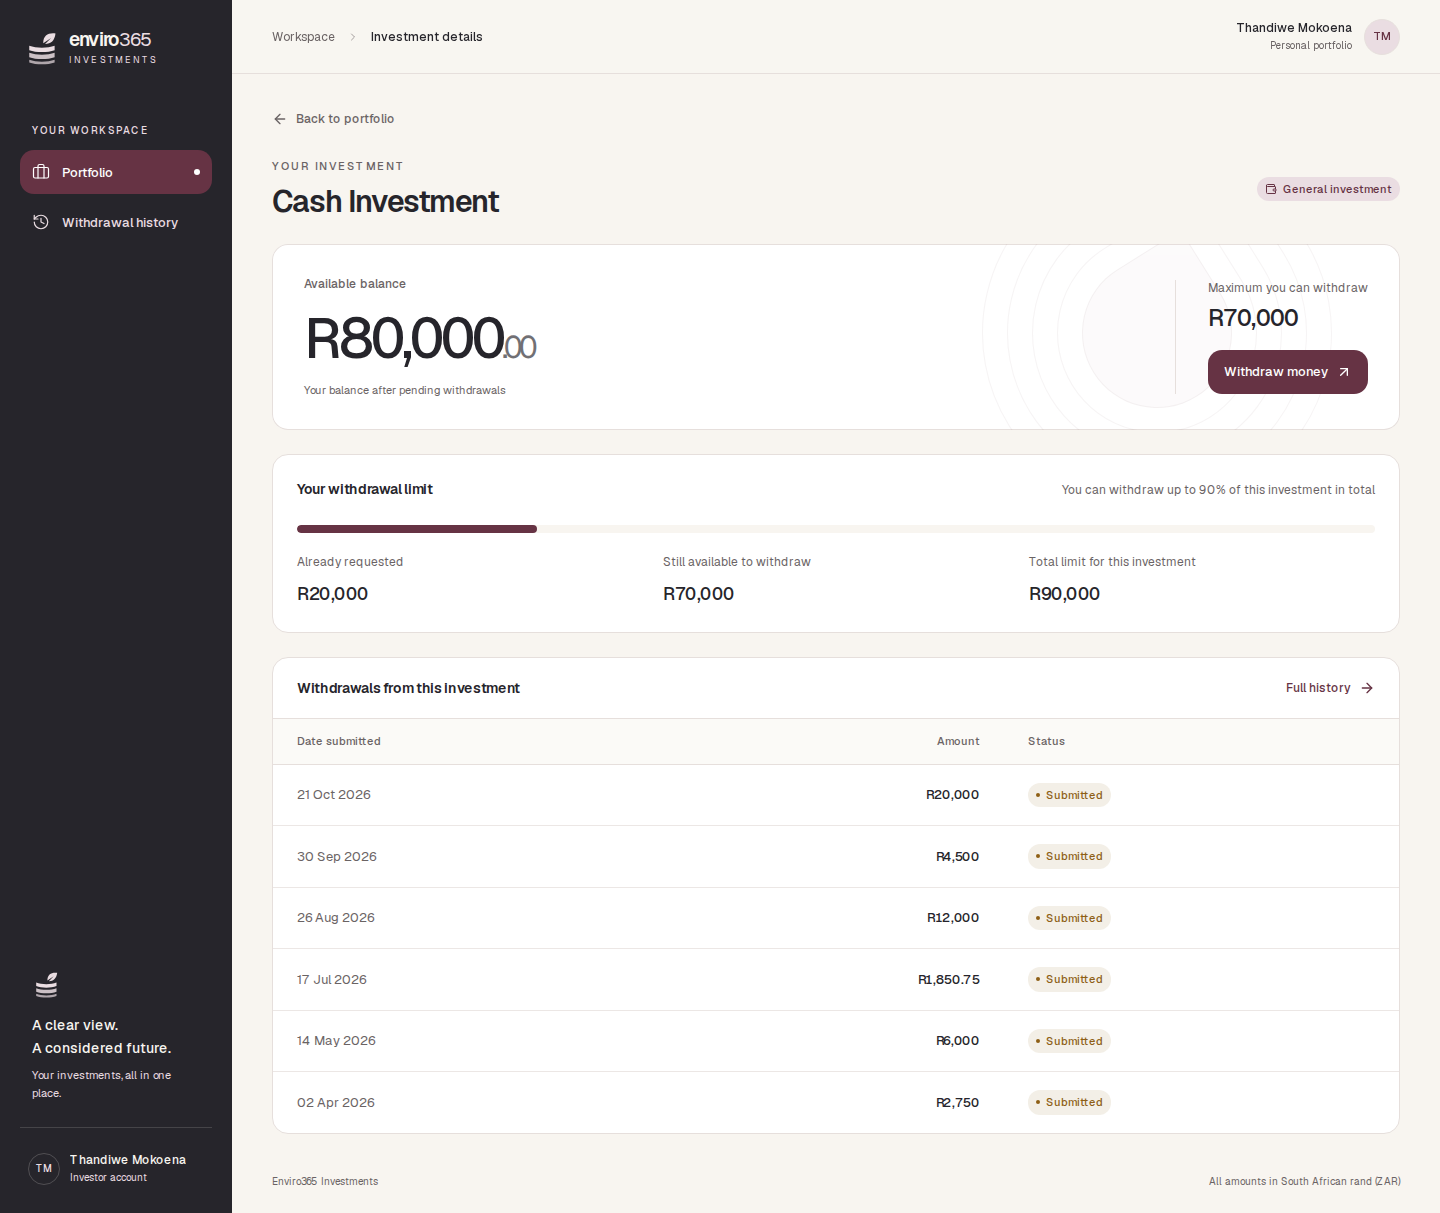
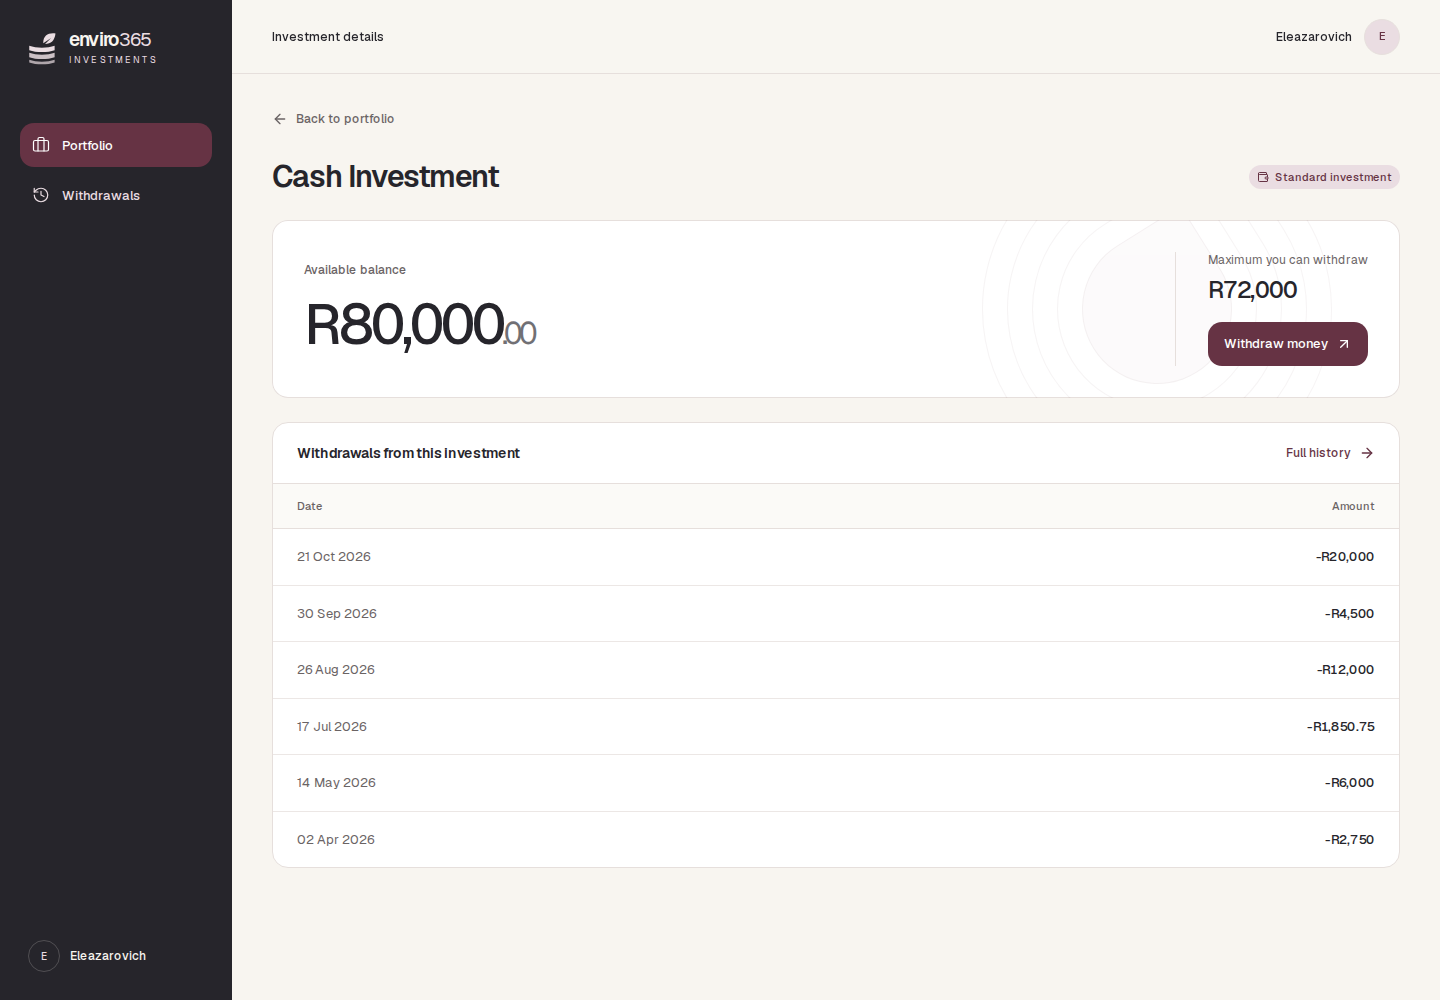
Finalize frontend requirements and refresh verification previews

diff --git a/_docs/SPEC.md b/_docs/SPEC.md
@@ -38,7 +38,7 @@ Create a premium, modern, minimalist financial application.
 
 - Light, neutral background with white or subtly elevated surfaces.
 - Dark, highly readable typography.
-- Restrained use of one sophisticated accent colour, such as deep blue, teal, or emerald.
+- Restrained rosewood accents with porcelain backgrounds and white surfaces, following the [design system](design-system.md).
 - Clear information hierarchy and generous, purposeful whitespace.
 - Beautiful but understated investment cards.
 - Subtle borders, restrained shadows, and consistent spacing.
@@ -47,7 +47,7 @@ Create a premium, modern, minimalist financial application.
 - Responsive desktop, tablet, and mobile layouts.
 - Appropriate loading, empty, error, and confirmation states.
 
-Use professional typography such as Inter or a similarly readable font.
+Use Geist typography and the existing Enviro365 brand mark.
 
 Avoid oversized headings, excessive gradients, glassmorphism, decorative charts, unnecessary animations, large stock illustrations, or generic AI-generated dashboard clutter.
 
@@ -61,19 +61,18 @@ Use simple, familiar terms throughout the interface.
 
 Preferred labels:
 
-- Your portfolio
-- Total available
+- Portfolio
+- Investment details
+- Withdrawals
+- Total available balance
 - Your investments
 - Available balance
 - Withdraw money
 - Amount
 - Maximum you can withdraw
-- Withdrawal history
 - Download statement
 - Date
 - Investment
-- Status
-- Submitted
 
 Avoid internal terminology such as:
 
@@ -94,7 +93,7 @@ Use a clean and minimal navigation system.
 Primary sections:
 
 - Portfolio
-- Withdrawal history
+- Withdrawals
 
 Individual investments should be accessible from the portfolio dashboard through their cards.
 
@@ -117,9 +116,9 @@ Give the investor an immediate understanding of their available portfolio balanc
 At the top:
 
 - Application identity: Enviro365 Investments.
-- Main heading: "Your portfolio".
+- Main heading: "Portfolio value".
 - A prominent total available balance across all investment products.
-- A short supporting label: "Total available across your investments".
+- Balance label: "Total available balance", without a repeated supporting explanation.
 
 Below:
 
@@ -131,7 +130,7 @@ Below:
 Each investment card should display:
 
 - Product name.
-- Product type, such as General investment or Retirement.
+- Product type, such as Standard investment or Retirement.
 - Current available balance.
 - A clear action: "View investment".
 
@@ -169,14 +168,17 @@ Show details of a selected investment and provide an easy way to withdraw money.
 - A section showing withdrawal history for this specific investment.
 
 Keep the layout simple, well spaced, and visually consistent with the dashboard.
+Use the investment name as the page heading without a separate "Your investment" label.
+Show the current maximum beside the withdrawal action; omit the separate withdrawal-limit meter.
 
 ### Withdrawal history preview
 
 Display existing withdrawal records for this investment, including:
 
 - Date.
-- Amount.
-- Status.
+- Amount, shown as a negative deduction with cents preserved.
+
+Keep notice status internal; investment-specific lists omit the Investment column.
 
 If no withdrawals exist, display:
 "You haven't made any withdrawals from this investment yet."
@@ -199,9 +201,12 @@ The form may be presented in a dedicated focused view, dialog, or side panel, de
 - Available balance.
 - Maximum permitted withdrawal.
 - Amount input.
-- Submit button: "Submit withdrawal".
+- Submit button: "Confirm withdrawal".
 
 The selected investment must already be known from the investment detail view.
+Format the amount with comma-separated thousands as the investor types, allow up to two
+decimal places, and complete the cents on blur (for example, `80000` becomes `80,000.00`).
+Preserve the caret during edits and reject invalid input without changing the requested amount.
 
 ### Validation
 
@@ -210,6 +215,7 @@ Validate that:
 - An amount is entered.
 - The amount is greater than zero.
 - The amount is a valid monetary amount with no more than two decimal places.
+- The amount meets the API-provided R100 minimum.
 - The amount does not exceed the available balance.
 - The amount does not exceed the maximum permitted withdrawal.
 - Retirement withdrawals are only available to eligible investors.
@@ -238,6 +244,7 @@ Do not simply display "Invalid request".
 - Send the request through the API service.
 - On success, show confirmation.
 - Refresh the investment balance and withdrawal history using the updated data.
+- If the balance refresh fails after an accepted request, preserve the success confirmation and updated history, replace outdated balance figures with a retry state, and prevent another withdrawal until the balance refresh succeeds. Retrying the balance must not resubmit the withdrawal.
 - On failure, retain the entered amount and show an understandable error.
 
 ### Success confirmation
@@ -262,14 +269,15 @@ Allow the investor to review withdrawals across their portfolio and download a f
 
 ### Layout
 
-Heading: "Withdrawal history".
+Heading: "Withdrawals", shown once in the top bar.
 
 Display a clean, readable table containing:
 
 - Date.
 - Investment.
-- Amount.
-- Status.
+- Amount, shown as a negative deduction with cents preserved.
+
+Keep status labels and pending totals out of the investor-facing table.
 
 Sort by most recent first.
 
@@ -283,11 +291,16 @@ Provide:
 - A clear way to reset filters.
 
 Filters should be easy to understand and should apply consistently to displayed results and CSV downloads.
+Only the latest filter request may update the results, error, or loading state.
+Hide results from previous filters while the current selection loads, and enable
+statement download only after results for that selection have loaded successfully.
 
 ### CSV download
 
 Provide a clearly visible button:
 "Download statement"
+
+Place the button above the withdrawal filters.
 
 When activated, request a CSV file using the current filters.
 
@@ -295,8 +308,10 @@ The downloaded statement should contain:
 
 - Date.
 - Investment.
-- Amount.
-- Status.
+- Amount, as a negative numeric deduction with two decimal places.
+
+The CSV uses the same three columns as the history table. API amounts remain positive
+and notice status remains internal.
 
 Use a descriptive filename, such as:
 `withdrawal-statement-2026-10-28.csv`
@@ -361,7 +376,7 @@ Use internally consistent fictional data, for example:
 **Retirement Investment**
 
 - Recorded investment balance: R60,000.
-- No existing submitted withdrawals.
+- No existing pending withdrawals; historical records remain available in history.
 - Available balance: R60,000.
 - Maximum withdrawal: R54,000.
 - After requesting R54,000: R6,000 available, with a new maximum of R5,400.

diff --git a/_docs/design-system.md b/_docs/design-system.md
@@ -7,7 +7,7 @@ The existing portfolio and withdrawal workflows use the **Rosewood & Porcelain**
 - **Colour:** rosewood `#663344` marks primary actions, selected states, and brand details; primary hover is `#522A38`. Porcelain `#F8F5F0` forms the page background, with white `#FFFFFF` card surfaces, `#26252B` primary text, `#6A6364` secondary text, and `#E6DFDC` borders. Subtle accent surfaces use `#EADDE2`. Success uses `#146649`, errors use `#B42318`, and warnings retain their semantic amber. The sidebar uses neutral charcoal; financial amounts stay neutral. Avoid gradients, competing accent colours, and excessive shadows.
 - **Type:** Geist, served through `next/font`, is used throughout. Page titles are 26–30px; investment balances are 32px; the principal balance scales from 40–56px. Amounts use tabular numerals. Small labels stay secondary to financial values.
 - **Spacing:** use a 4px base, 20–24px between related panels, and 24–32px inside important surfaces. The desktop sidebar is 232px. Content is bounded on wide screens; screens below 1024px use the existing two-destination bottom navigation to leave room for financial information.
-- **Surfaces:** 16px corners, subtle borders, and minimal shadows. Group related controls and information: history filters and results share a single surface. The existing withdrawal-limit meter is the only data visualisation.
+- **Surfaces:** 16px corners, subtle borders, and minimal shadows. Group related controls and information: history filters and results share a single surface. Investment details flow directly from the balance summary to withdrawal history, with the current withdrawal maximum beside the action.
 - **Actions and fields:** primary actions use rosewood with white text; secondary actions use a neutral border. Inputs share `.field` and `.field-label`, with visible rosewood focus rings and explicit validation messages. Field boundaries use a dedicated input token with at least 3:1 contrast on white; text and action colours meet WCAG AA contrast expectations.
 - **States:** skeletons follow the eventual content shape. Errors offer the existing retry action. Withdrawal confirmation uses **Withdrawal submitted successfully**, the investment name, the signed amount, and **Done**. Balance and history updates run in the background without explanatory success copy. Motion respects reduced-motion preferences.
 
@@ -17,7 +17,15 @@ Colour tokens and shared styles live in `frontend/src/styles/tailwind.css`; `fro
 
 `BalanceAmount` displays actual decimal cents and exposes the complete amount to assistive technology. Investment cards and limits use the existing precise currency formatter. The modal supports initial focus, keyboard containment, Escape, focus restoration, and disabled dismissal during submission.
 
+Investment details use the investment name as the heading without an extra eyebrow. General products carry the **Standard investment** label; retirement products retain **Retirement**. API product types remain unchanged. `CurrencyInput` adds grouping commas during entry, permits up to two decimal places, completes cents on blur, and preserves cursor editing. Invalid edits and pastes retain the previous amount. The separate withdrawal-limit meter and its skeleton are removed; the maximum withdrawal and financial validation remain available.
+
 The routes, eligibility rule, filters, and CSV export remain in place. Each withdrawal is limited to 90% of the remaining available balance, rounded down to cents, with a R100 minimum. The API supplies both `minimumWithdrawable` and `maximumWithdrawable`; visual components do not calculate the limits. The decorative leaf outlines are original CSS and SVG, with no third-party imagery or chart data.
+
+History displays results for the current filter selection only, and keeps statement
+download unavailable until those results load. Late responses cannot replace newer
+results or errors. If a balance refresh fails after a submitted withdrawal, preserve
+the success confirmation and refreshed history, replace outdated balance figures
+with a retry state, and require a successful balance refresh before another request.
 
 When no request of at least R100 fits within the 90% limit, show **Minimum you can withdraw: R100** on the investment detail and portfolio card, and disable **Withdraw money**, without an additional limit explanation. Keep the actual available balance visible. Eligible investments continue to show **Maximum you can withdraw** with their current limit. The API still returns a maximum of R0 when unavailable; this is a display change only. The form's existing amount hint shows **Minimum withdrawal is R100.** There is no final-cent or full-balance exception.
 
@@ -44,8 +52,17 @@ Browser fixtures do not contact a live investment backend or submit real withdra
 
 The same suite also exercises the real mock adapter directly in `mock-api.spec.ts`, covering repeated requests on both products, the R100 minimum, cent rounding, retained balances below the minimum, concurrent requests, and retirement age boundaries. These checks do not prove Spring Boot/H2 integration.
 
+The [frontend verification report](frontend-verification.md) records the completed
+checks, including late filter responses, combined product/date exports, balance
+refresh recovery, and a clean installation from the committed lockfile.
+
 
 ## Previews
+
+Captured from the current frontend in mock mode on 29 October 2026. Desktop previews
+use 1440px width; mobile previews use a 390 × 844px viewport. These show the current
+R72,000 cash maximum, signed deductions, three-column statements, and simplified
+investment details.
 
 [Desktop portfolio](previews/rosewood-porcelain/portfolio-desktop.png) · [Investment details](previews/rosewood-porcelain/investment-details-desktop.png) · [Withdrawal form](previews/rosewood-porcelain/withdrawal-desktop.png) · [Withdrawal history](previews/rosewood-porcelain/history-desktop.png)
 

diff --git a/_docs/TASKS.md b/_docs/TASKS.md
@@ -1,5 +1,9 @@
 # Enviro365 Investments — Implementation & QA Checklist
 
+Frontend verification on 29 October 2026 uses the real mock adapter and intercepted
+HTTP responses. Checked frontend items below cover that phase; live integration and
+backend requirements remain unchecked. See the [frontend report](frontend-verification.md).
+
 ## A. Mandatory backend requirements
 
 ### MB-01 — Retrieve investor portfolio
@@ -31,30 +35,30 @@
 ## B. Mandatory frontend requirements
 
 ### MF-01 — Portfolio dashboard
-- [ ] Dashboard displays investor portfolio data.
-- [ ] Investment products are displayed.
-- [ ] Overall available balance is accurate.
-- [ ] Investor can open individual investment details.
+- [x] Dashboard displays investor portfolio data from the selected adapter.
+- [x] Investment products are displayed.
+- [x] Overall available balance is accurate in the verified mock and HTTP fixtures.
+- [x] Investor can open individual investment details.
 - [ ] Data is retrieved from the Spring Boot API in the integrated version.
 
 ### MF-02 — Withdrawal form
-- [ ] User can enter a withdrawal amount.
-- [ ] User can submit a request.
-- [ ] User receives clear feedback for invalid requests.
-- [ ] Successful submission updates the displayed balance.
+- [x] User can enter a withdrawal amount.
+- [x] User can submit a request through the selected adapter.
+- [x] User receives clear feedback for invalid requests.
+- [x] Successful submission refreshes the displayed balance; a failed refresh shows retry instead of outdated figures and does not resubmit the withdrawal.
 - [ ] Request is sent to the actual backend API.
 
 ### MF-03 — Withdrawal history table
-- [ ] History displays saved withdrawal records.
-- [ ] Each record shows the relevant investment, date, amount and status.
-- [ ] Newly submitted requests appear in the history.
-- [ ] Empty states are handled.
+- [x] History displays withdrawal records returned by the selected adapter.
+- [x] Lists show Date, Investment and signed Amount; investment-specific lists omit Investment. Notice status remains internal.
+- [x] Newly submitted requests appear in the history.
+- [x] Empty states are handled.
 
 ### MF-04 — CSV download button
-- [ ] Download button exists.
+- [x] Download button exists above the filters.
 - [ ] Button calls the backend export API.
-- [ ] Applied filters are respected.
-- [ ] Browser downloads a valid CSV file.
+- [x] Product and date filters are respected; superseded responses cannot change current results or enable an outdated download.
+- [x] Browser downloads a valid CSV file with Date, Investment and negative Amount columns.
 
 ## C. Mandatory business rules
 
@@ -111,11 +115,14 @@ suite. Backend verification remains pending. See [business rules](business-rules
 - [ ] Invalid withdrawal tests pass.
 
 ### ADV-05 — UI validation
-- [ ] Form validates user input.
-- [ ] Error messages appear near the relevant input.
-- [ ] Invalid submissions are prevented where possible.
+- [x] Form validates user input.
+- [x] Error messages appear near the relevant input.
+- [x] Invalid submissions are prevented where possible.
 - [ ] Backend errors are also displayed correctly.
-- [ ] Submitting state prevents duplicate clicks.
+- [x] Submitting state prevents duplicate clicks.
+
+HTTP error feedback and retry are verified with fixtures. The unchecked backend-error
+item still requires a live integration check.
 
 ## E. Technical and delivery guidelines
 
@@ -125,9 +132,9 @@ suite. Backend verification remains pending. See [business rules](business-rules
 - [ ] APIs follow REST best practices.
 - [ ] Frontend communicates with actual backend APIs.
 - [ ] GitHub repository includes backend and frontend.
-- [ ] README includes project setup.
+- [x] README includes frontend setup, verified with a clean `npm ci` installation.
 - [ ] README includes API documentation.
-- [ ] README includes screenshots.
-- [ ] README discloses AI tool usage.
+- [x] README includes current frontend screenshots.
+- [x] README discloses AI tool usage.
 - [ ] I can explain all AI-assisted code.
 - [ ] Application can be started and tested using README instructions.

diff --git a/_docs/frontend-verification.md b/_docs/frontend-verification.md
@@ -1,0 +1,64 @@
+# Frontend verification — 29 October 2026
+
+The frontend implements four UI features: portfolio
+dashboard, withdrawal form, withdrawal history table and CSV download button. This
+report covers the frontend phase using the real mock adapter and HTTP fixtures.
+
+## Requirements verified
+
+| Area | Verified behaviour |
+| --- | --- |
+| Portfolio | Investor and products, R140,000 demo total, individual investment navigation, and balance refresh after submission. |
+| Withdrawal form | Grouped rand input, preserved cents and cursor editing, positive amounts, two-decimal validation, R100 minimum, available-balance and maximum checks, retirement eligibility, duplicate-click prevention, confirmation and failure retry. |
+| Withdrawal history | Recent and investment-specific records, signed deductions, new requests, product/date filters, empty results, invalid date ranges, reset and error recovery. |
+| CSV download | Download above filters; product and inclusive date filters reach the export adapter; matching records, Date/Investment/Amount columns, negative two-decimal amounts, filename and export-error retry. |
+| Responsive and keyboard behaviour | Desktop and mobile test projects, overflow checks at 320/768/1024/1280px, dialog initial focus, Tab containment, Escape, focus restoration and locked submission. |
+
+The mock financial tests cover retirement ages 64/65/66, repeated requests on both
+products, downward cent rounding, R99.99/R100 and R111.11/R111.12 boundaries,
+concurrent mock requests, and unchanged data after rejection. The R100 minimum and
+per-request interpretation of 90% remain the user's decisions, as recorded in
+[business rules](business-rules.md).
+
+## Four review issues resolved
+
+1. History ignores superseded successes and failures. Results from previous filters
+   are hidden while the new selection loads; download stays disabled until current
+   results are available. Regression tests delay Cash responses until after the
+   Retirement response and verify that the table and CSV still agree.
+2. A successful withdrawal followed by a failed balance refresh keeps its success
+   confirmation and new history entry. Outdated balance and maximum figures are
+   replaced by an error with retry. Another request is unavailable until refresh
+   succeeds; retry performs no additional POST. The regression verifies R79,000
+   available and R71,100 maximum after a single R1,000 request.
+3. The dependency lockfile is committed and no longer ignored. A separate temporary
+   frontend directory completed `npm ci`, type check, lint and production build
+   using the existing dependency versions.
+4. The specification and checklist now follow the current language and presentation
+   decisions. Desktop and mobile previews were refreshed from the working frontend:
+   R72,000 cash maximum, Standard investment, signed deductions, no visible status
+   or pending totals, no separate limit meter, and download above filters.
+
+## Check results
+
+| Check | Result |
+| --- | --- |
+| `npm run type-check` | Passed |
+| `npm run lint` | Passed with six existing warnings |
+| `npm run build` | Passed |
+| `npm run test:e2e` | 56 passed across desktop and mobile |
+| Clean `npm ci`, type check, lint and build | Passed in a separate temporary directory |
+| Current mock-mode screens | Portfolio, investment details, withdrawal dialog and history captured on desktop and mobile |
+
+The six lint warnings are the existing `any` types in `AppIcon.tsx` and
+`AppImage.tsx`, plus two image alt-text warnings in `AppImage.tsx`. They were kept
+outside this task's four fixes.
+
+Verification includes the earlier uncommitted UI changes present at the start of
+this task. Those changes were preserved separately from the fixes. The frontend
+service-layer contracts and financial policy were preserved. Mock notices remain
+in memory and reset on a full reload; this report does not establish live API or
+database integration.
+
+See the [implementation checklist](TASKS.md), [specification](SPEC.md) and
+[current design previews](design-system.md#previews).

diff --git a/README.md b/README.md
@@ -20,6 +20,9 @@ Open http://localhost:4028. Mock mode is enabled unless
 `NEXT_PUBLIC_API_BASE_URL` and `NEXT_PUBLIC_USE_MOCK_API=false` in
 `frontend/.env.local`. Do not place secrets in public environment variables.
 
+The committed `frontend/package-lock.json` pins the existing dependency versions
+for `npm ci`. A clean installation, type check, lint and build have been verified.
+
 ## Withdrawal rules
 
 Both products allow up to 90% of the **remaining available balance per request**,
@@ -58,6 +61,9 @@ npm run test:e2e
 
 Playwright uses port 4029 and `.next-e2e`. It tests the browser with HTTP fixtures
 and tests the real mock adapter directly. It does not prove Spring Boot/H2 integration.
+
+See the [frontend verification report](_docs/frontend-verification.md) for the
+completed frontend requirements, regression checks and remaining lint warnings.
 
 ## Design previews and AI use
 
